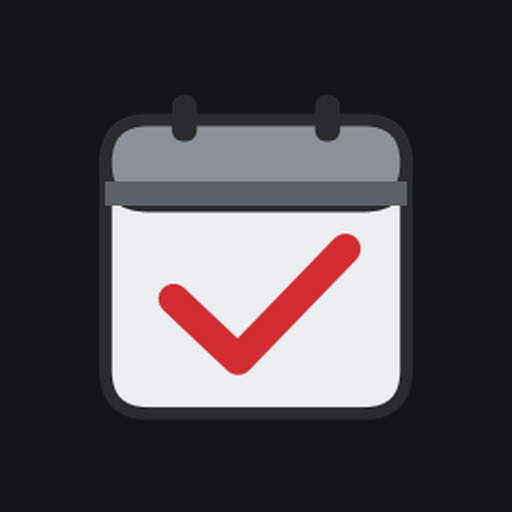
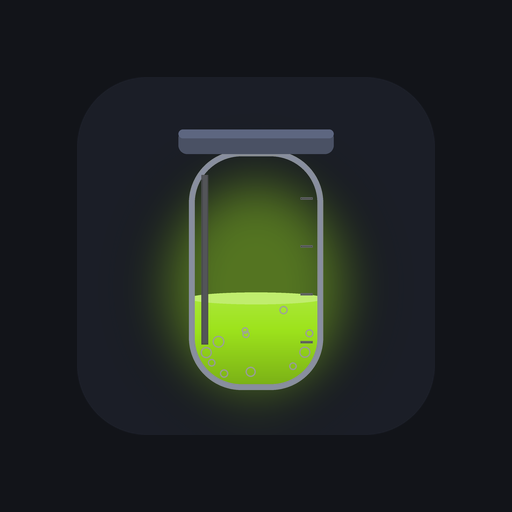
Publish 20261020-075057

diff --git a/sw.js b/sw.js
@@ -2,8 +2,8 @@
 // It keeps a copy of every app file so the planner opens with no connection, and when a new
 // version is published it downloads it in the background; the page then swaps it in when
 // she isn't in the middle of something. publish.ps1 stamps BUILD and FILES.
-const BUILD = "20261020-073323";
-const FILES = ["./", "animals.js", "app.js", "assistant.js", "checkin.js", "config.js", "emotions.js", "fitness.js", "focus.js", "funfacts.js", "google.js", "health.js", "holidays.js", "home.js", "icon-512.png", "icon-maskable.png", "icon.png", "index.html", "joy.js", "manifest.webmanifest", "microsoft.js", "phone.js", "phoneapi.js", "privacy.html", "recap.js", "signin.js", "store.js", "style.css", "terms.html", "themes.css", "themes.js", "todo.js", "wellness.js", "animals/husky.json", "animals/parrot.json", "molly/molly-1.webp", "molly/molly-10.webp", "molly/molly-11.webp", "molly/molly-2.webp", "molly/molly-3.webp", "molly/molly-4.webp", "molly/molly-5.webp", "molly/molly-6.webp", "molly/molly-7.webp", "molly/molly-8.webp", "molly/molly-9.webp", "ori/ori-1.webp", "ori/ori-10.webp", "ori/ori-11.webp", "ori/ori-12.webp", "ori/ori-13.webp", "ori/ori-14.webp", "ori/ori-15.webp", "ori/ori-16.webp", "ori/ori-17.webp", "ori/ori-18.webp", "ori/ori-19.webp", "ori/ori-2.webp", "ori/ori-20.webp", "ori/ori-21.webp", "ori/ori-22.webp", "ori/ori-23.webp", "ori/ori-24.webp", "ori/ori-25.webp", "ori/ori-26.webp", "ori/ori-27.webp", "ori/ori-28.webp", "ori/ori-29.webp", "ori/ori-3.webp", "ori/ori-30.webp", "ori/ori-31.webp", "ori/ori-32.webp", "ori/ori-33.webp", "ori/ori-34.webp", "ori/ori-35.webp", "ori/ori-36.webp", "ori/ori-37.webp", "ori/ori-38.webp", "ori/ori-39.webp", "ori/ori-4.webp", "ori/ori-40.webp", "ori/ori-5.webp", "ori/ori-6.webp", "ori/ori-7.webp", "ori/ori-8.webp", "ori/ori-9.webp", "syncs/drive.js", "syncs/gcal.js", "syncs/google-auth.js", "syncs/merge.js", "syncs/mstodo.js", "syncs/phoneapp.js", "syncs/tz.js", "vendor/lottie.min.js"];
+const BUILD = "20261020-075057";
+const FILES = ["./", "animals.js", "app.js", "assistant.js", "checkin.js", "config.js", "emotions.js", "fitness.js", "focus.js", "funfacts.js", "google.js", "health.js", "holidays.js", "home.js", "icon-512.png", "icon-maskable.png", "icon.png", "index.html", "joy.js", "manifest.webmanifest", "microsoft.js", "phone.js", "phoneapi.js", "privacy.html", "recap.js", "signin.js", "store.js", "style.css", "terms.html", "themes.css", "themes.js", "todo.js", "wellness.js", "animals/husky.json", "animals/parrot.json", "chaos-icons/chaos-0.png", "chaos-icons/chaos-1.png", "chaos-icons/chaos-2.png", "chaos-icons/chaos-3.png", "chaos-icons/chaos-4.png", "molly/molly-1.webp", "molly/molly-10.webp", "molly/molly-11.webp", "molly/molly-2.webp", "molly/molly-3.webp", "molly/molly-4.webp", "molly/molly-5.webp", "molly/molly-6.webp", "molly/molly-7.webp", "molly/molly-8.webp", "molly/molly-9.webp", "ori/ori-1.webp", "ori/ori-10.webp", "ori/ori-11.webp", "ori/ori-12.webp", "ori/ori-13.webp", "ori/ori-14.webp", "ori/ori-15.webp", "ori/ori-16.webp", "ori/ori-17.webp", "ori/ori-18.webp", "ori/ori-19.webp", "ori/ori-2.webp", "ori/ori-20.webp", "ori/ori-21.webp", "ori/ori-22.webp", "ori/ori-23.webp", "ori/ori-24.webp", "ori/ori-25.webp", "ori/ori-26.webp", "ori/ori-27.webp", "ori/ori-28.webp", "ori/ori-29.webp", "ori/ori-3.webp", "ori/ori-30.webp", "ori/ori-31.webp", "ori/ori-32.webp", "ori/ori-33.webp", "ori/ori-34.webp", "ori/ori-35.webp", "ori/ori-36.webp", "ori/ori-37.webp", "ori/ori-38.webp", "ori/ori-39.webp", "ori/ori-4.webp", "ori/ori-40.webp", "ori/ori-5.webp", "ori/ori-6.webp", "ori/ori-7.webp", "ori/ori-8.webp", "ori/ori-9.webp", "syncs/drive.js", "syncs/gcal.js", "syncs/google-auth.js", "syncs/merge.js", "syncs/mstodo.js", "syncs/phoneapp.js", "syncs/tz.js", "vendor/lottie.min.js"];
 const CACHE = "arp-" + BUILD;
 
 self.addEventListener("install", e => {

diff --git a/app.js b/app.js
@@ -1586,6 +1586,24 @@ function render() {
   else renderRecap();
   if ($("checkin-dialog").open) renderCheckin();
   if ($("focus-dialog") && $("focus-dialog").open) renderFocus();
+  updateAppIcon();
+}
+
+// The app's icon is today's chaos flask: the browser-tab icon everywhere, and on this PC the
+// desktop shortcut too (planner.pyw swaps it). Levels match the meter: calm green → boiling red.
+let iconLevel = null;
+function updateAppIcon() {
+  let level = 1;
+  try {
+    const tk = todayKey(), p = planDay(tk), ft = freeTimeLeft(tk, p.active);
+    const pct = ft.past ? 0 : chaosFor(tk, ft).pct;
+    level = pct < 25 ? 0 : pct < 50 ? 1 : pct < 75 ? 2 : pct < 90 ? 3 : 4;
+  } catch { return; }
+  if (level === iconLevel) return;
+  iconLevel = level;
+  const link = document.querySelector('link[rel="icon"]');
+  if (link) link.href = `chaos-icons/chaos-${level}.png`;
+  if (ON_PC) fetch(`/api/chaosicon?level=${level}`, { method: "POST" }).catch(() => {});
 }
 
 // ---------- Settings: each section opens and closes (instead of one long page) ----------

diff --git a/config.js b/config.js
@@ -1,2 +1,2 @@
 // Published phone app (made by publish.ps1). See web/config.js.
-window.ARP_CONFIG = { mode: "standalone", build: "20261020-073323" };
+window.ARP_CONFIG = { mode: "standalone", build: "20261020-075057" };
